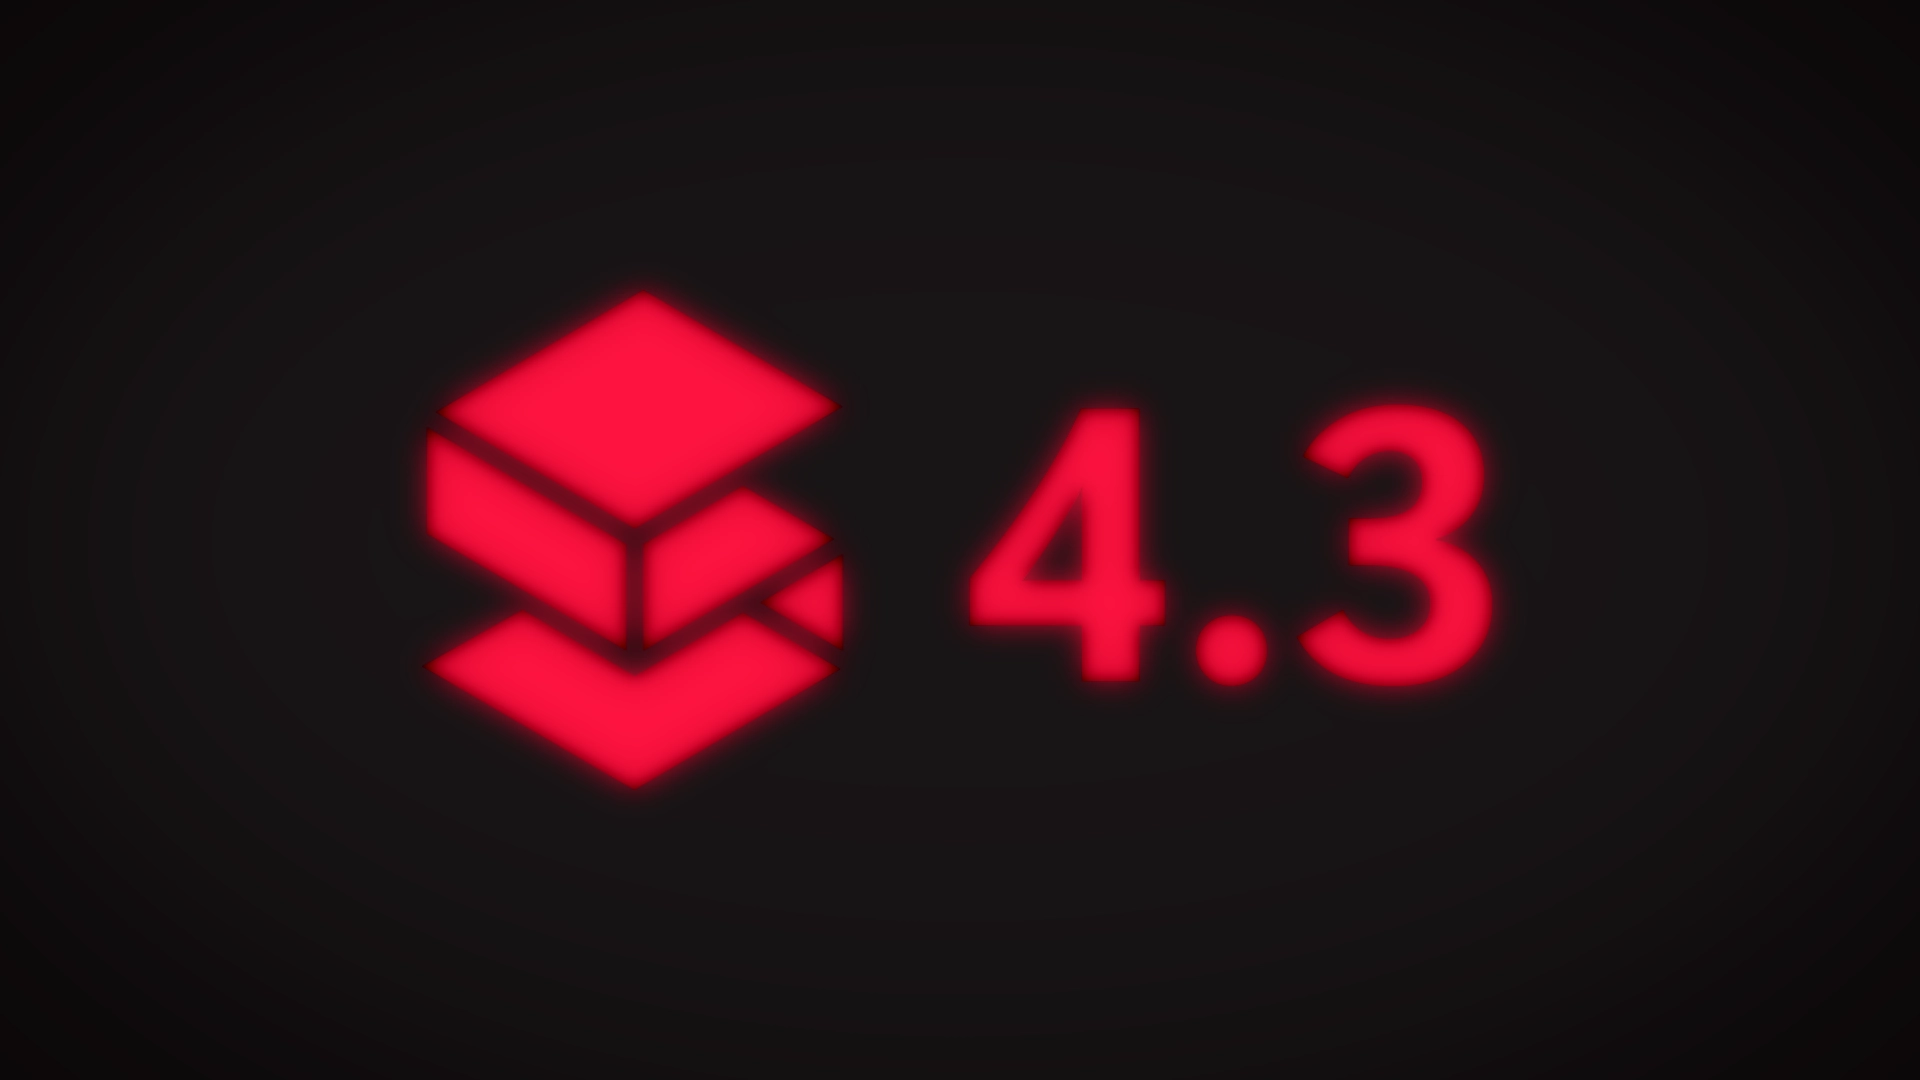
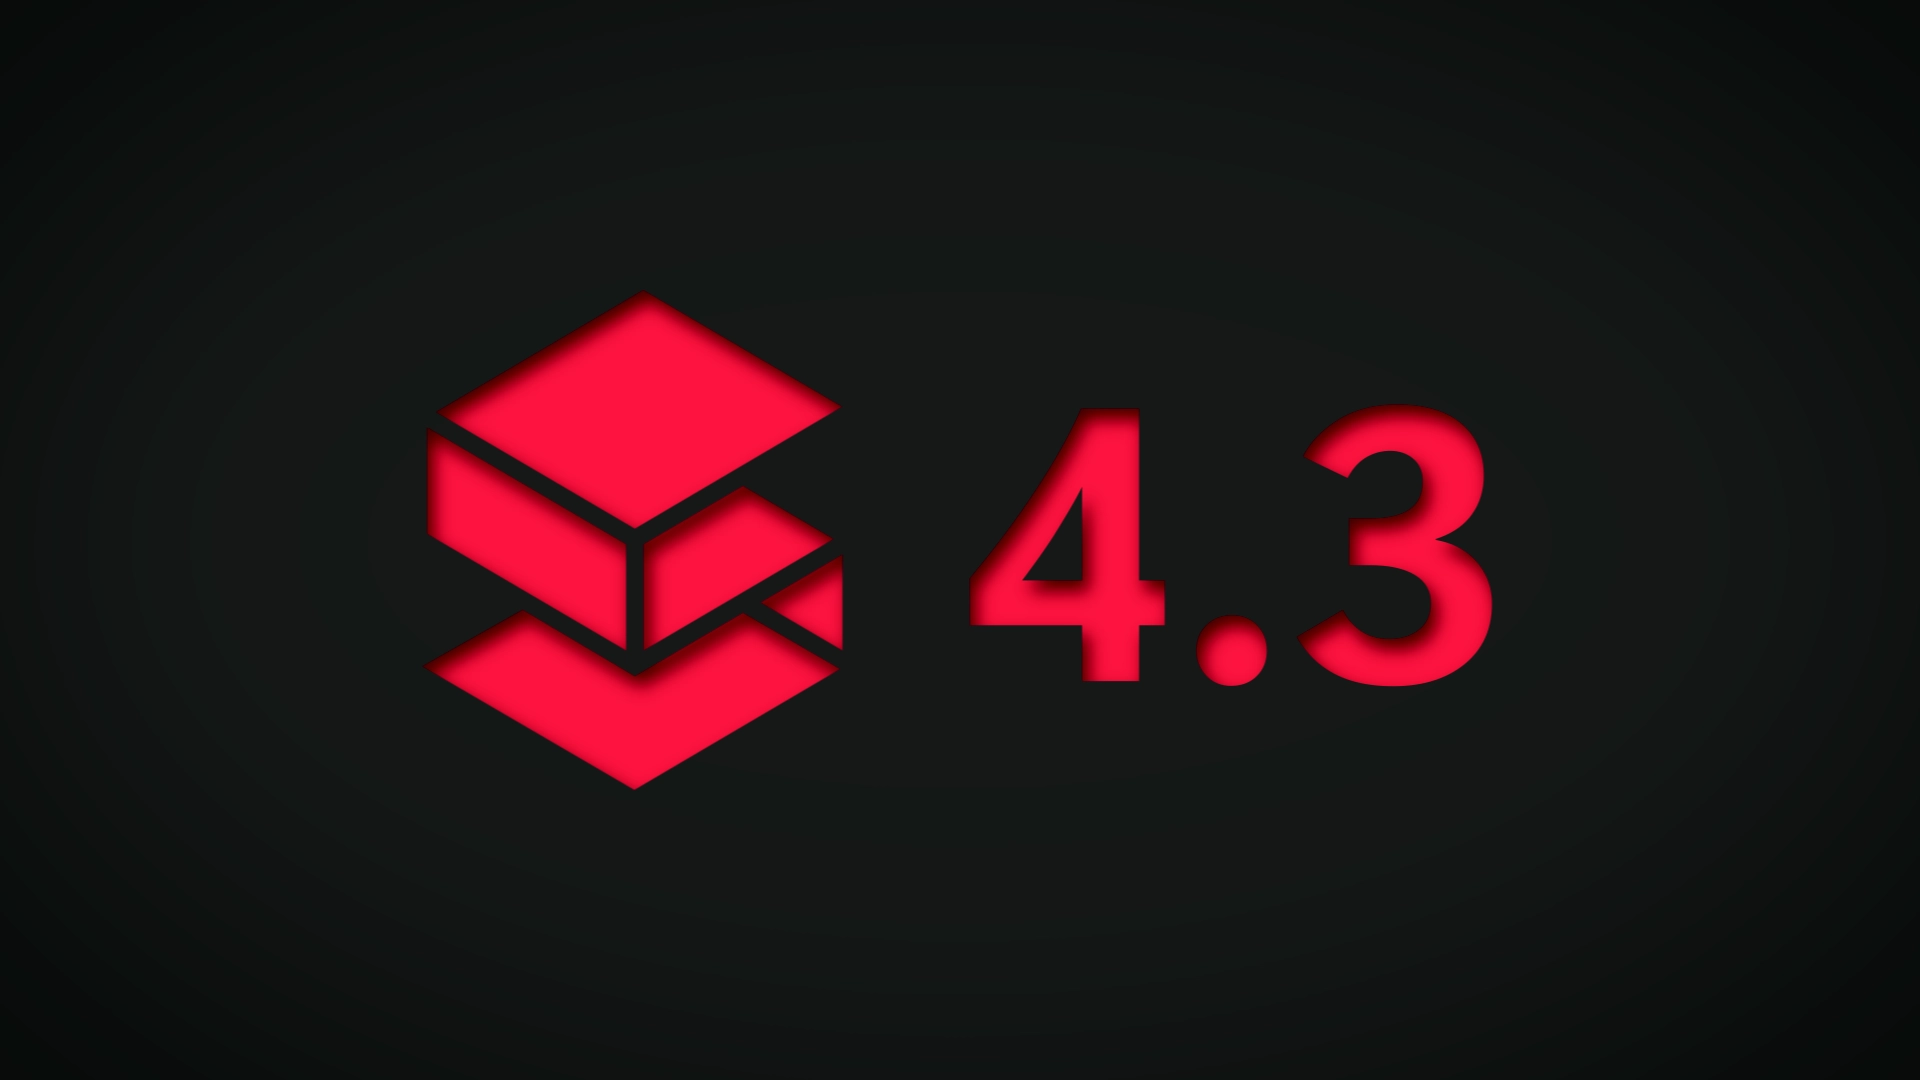
fix: Updated release announcement blog covers

Changed region(s): [[0.1875, 0.2444, 0.4688, 0.7639], [0.5, 0.3361, 0.7812, 0.6722]]

diff --git a/posts/2024-02-06-announcing-stride-4-2-in-dotnet-8.md b/posts/2024-02-06-announcing-stride-4-2-in-dotnet-8.md
@@ -2,6 +2,7 @@
 title: 'Announcing Stride 4.2'
 author: vaclav
 tags: ['4.2','Release']
+image: /images/blog/release-4.2/post-cover.webp
 ---
 
 Stride contributors are thrilled to announce the release of Stride 4.2, now fully compatible with .NET 8 and leveraging the latest enhancements in C# 12. This release brings significant improvements in performance, stability, and developer experience.

diff --git a/posts/2024-03-14-open-worlds-intro-to-foss-game-engines.md b/posts/2024-03-14-open-worlds-intro-to-foss-game-engines.md
@@ -2,7 +2,7 @@
 title: "Open Worlds: An Introduction to Free and Open-Source Game Engines"
 author: parham
 popular: false
-image: /images/blog/2024-03/foss-engine-girl.webp
+image: /images/blog/2024-03/post-cover.webp
 tags: ['Education']
 ---
 
